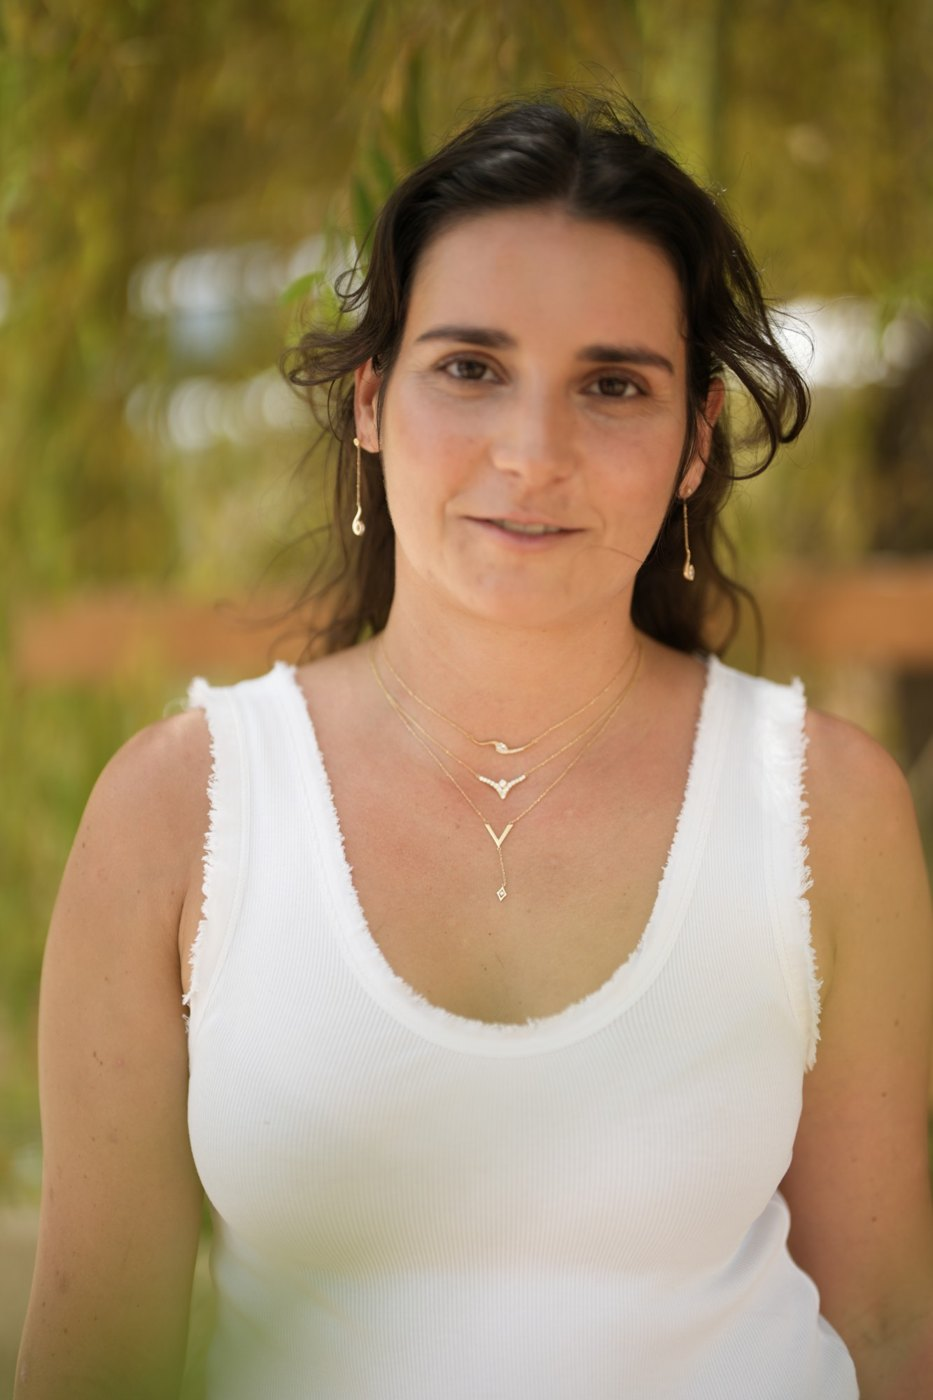
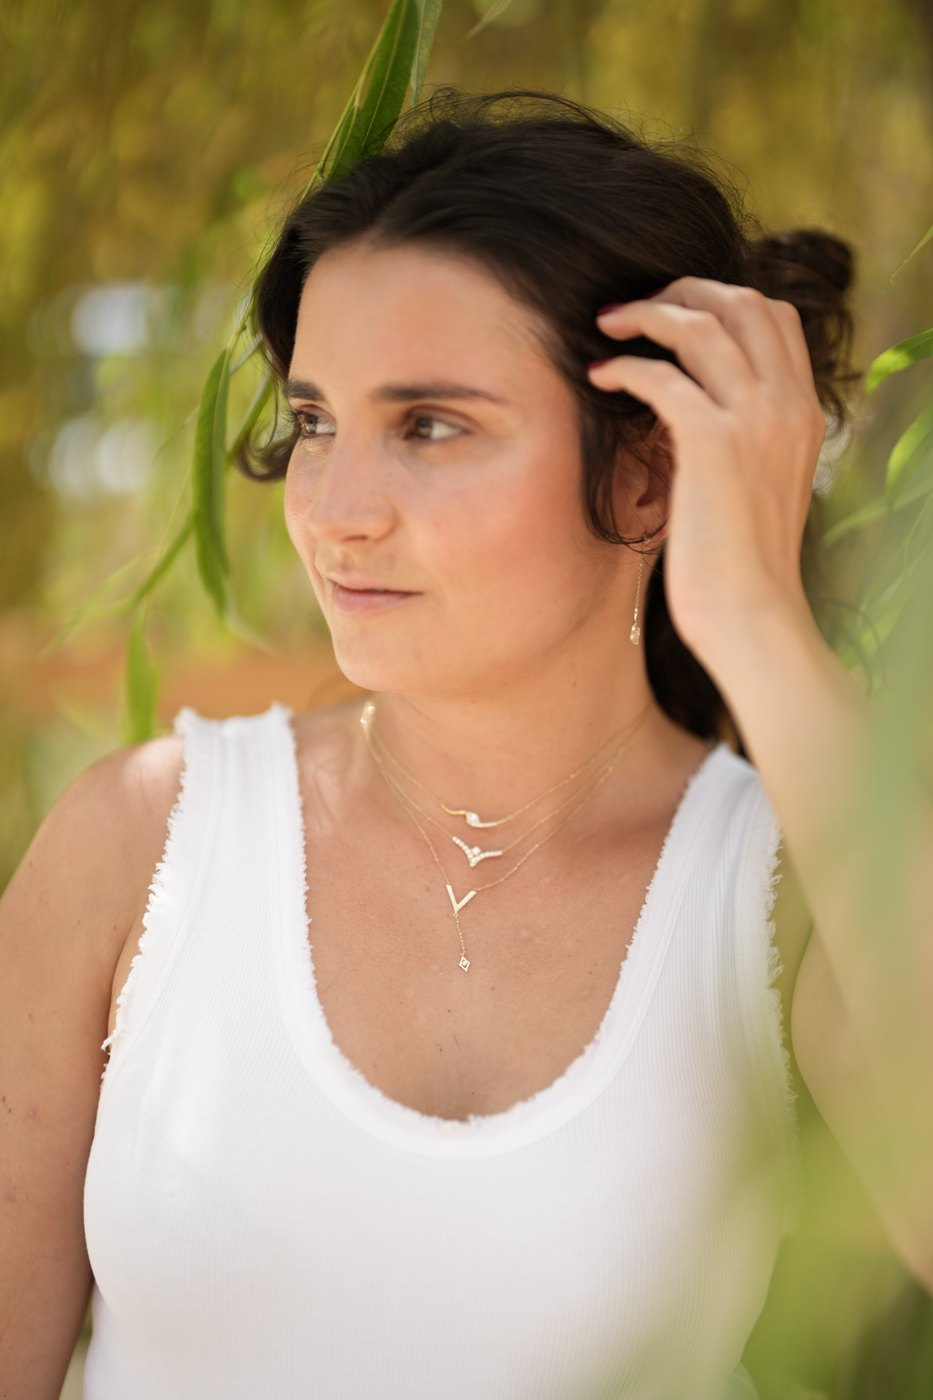
About: founder with Marais beside Marais, Reversed; new portrait beside Timeless, intentional, personal
Claude-Session: https://claude.ai/code/session_01SdsNcmoHKjJHgDuZTWPX6s

diff --git a/about.html b/about.html
@@ -124,13 +124,13 @@
 
 <section>
   <div class="container split">
-    <div class="split-media reveal">
-      <img src="images/journal/story-behind-siaram.jpg" alt="The founder of Siaram riding her horse" loading="lazy" />
-    </div>
     <div class="split-text reveal">
       <span class="eyebrow">The Name</span>
       <h2>Marais, Reversed</h2>
       <p>Derived from Marais — the owner's horse's name, reversed — Siaram represents a personal reflection: strength, freedom, and elegance mirrored back at you. It carries a quiet power, much like these pieces: rooted in nature, motion, and emotion.</p>
+    </div>
+    <div class="split-media reveal">
+      <img src="images/about/marais-with-founder.jpg" alt="The founder of Siaram with her horse Marais" loading="lazy" />
     </div>
   </div>
 </section>
